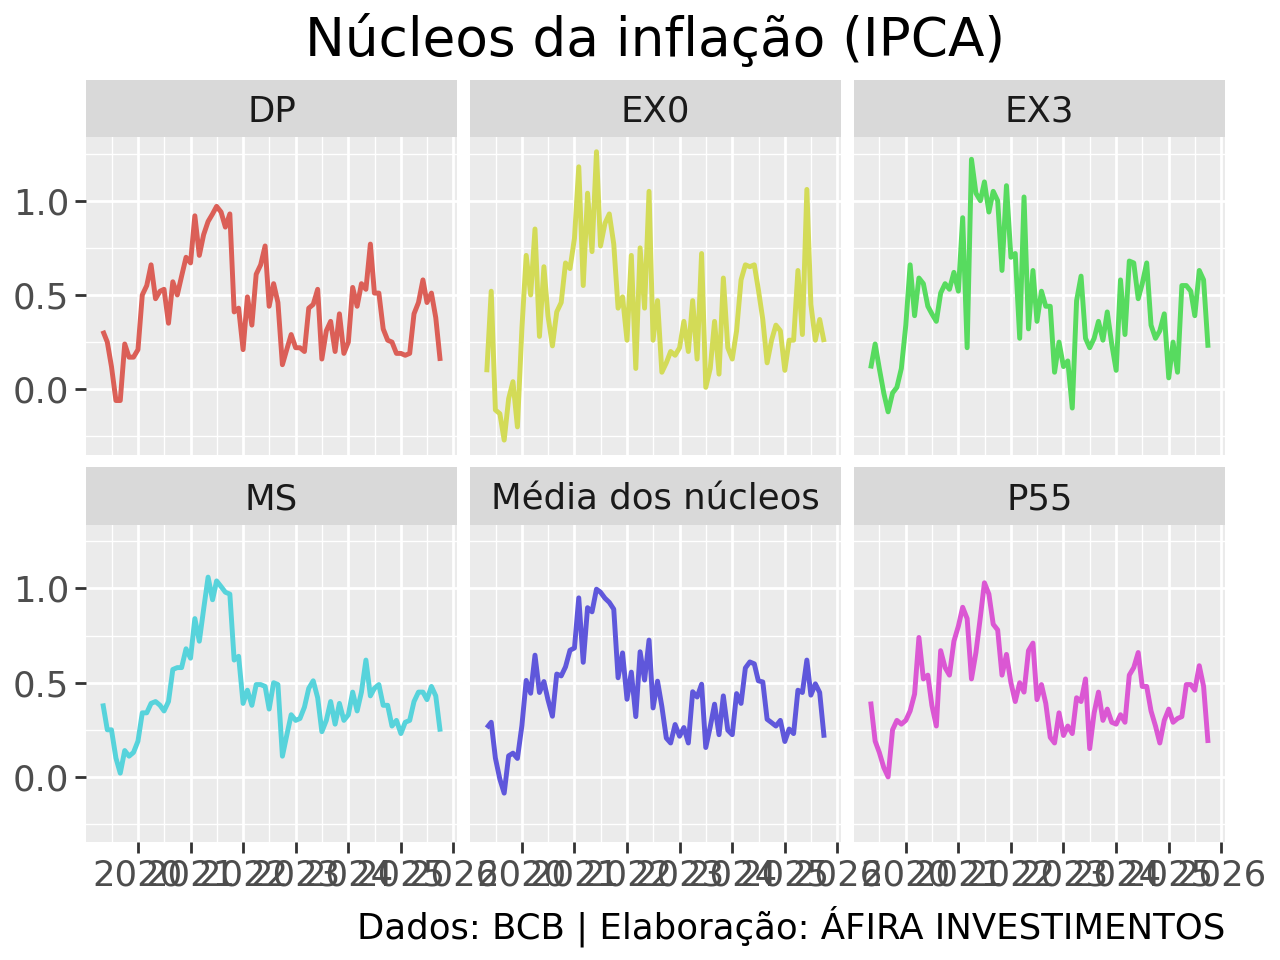
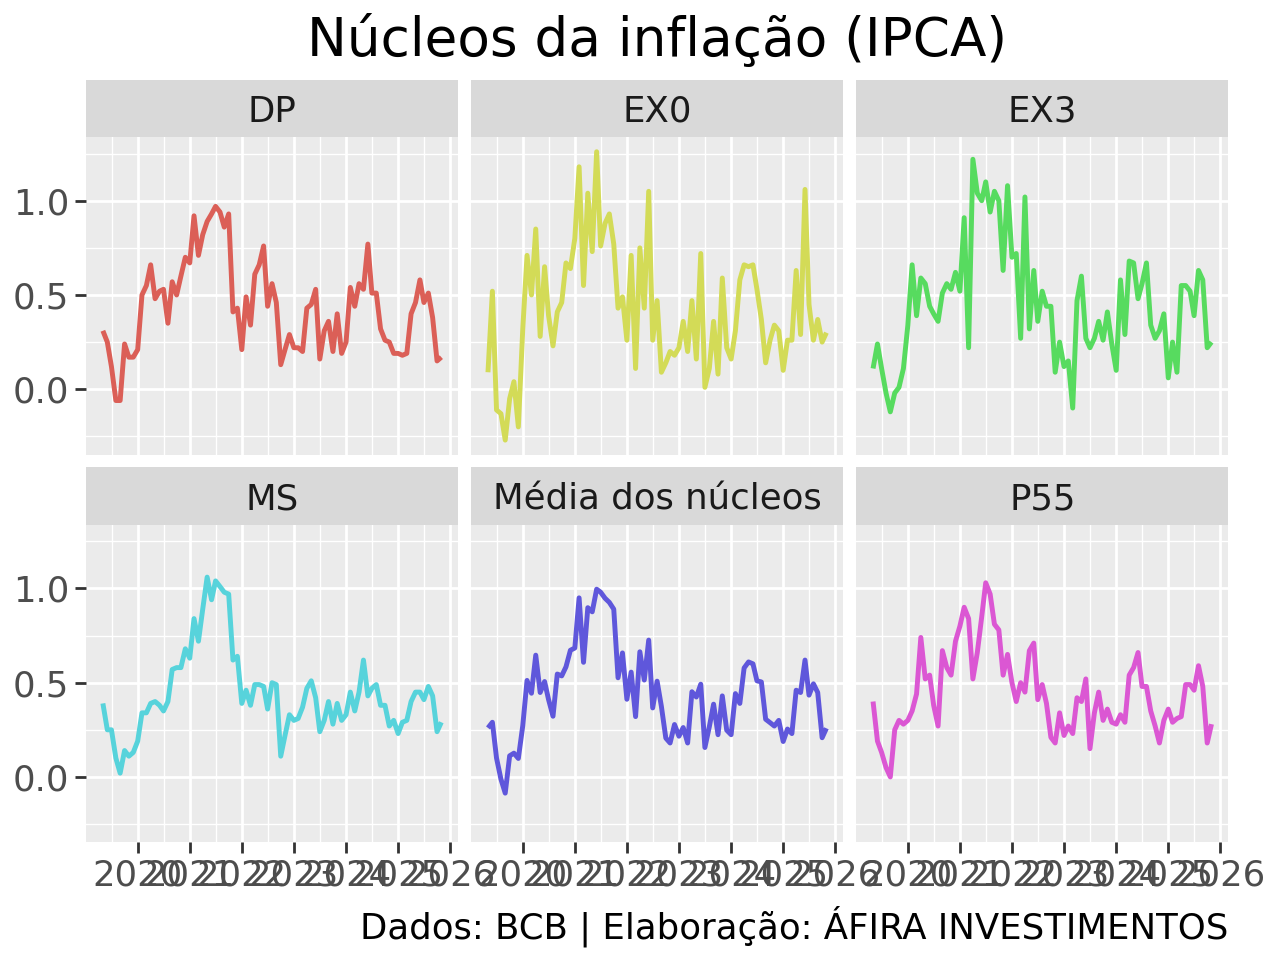
Atualização de relatório automatizada

diff --git a/projeto1/projeto1.html b/projeto1/projeto1.html
@@ -63,7 +63,7 @@ ul.task-list li input[type="checkbox"] {
     <div>
     <div class="quarto-title-meta-heading">Data de Publicação</div>
     <div class="quarto-title-meta-contents">
-      <p class="date">10 de agosto de 2026</p>
+      <p class="date">12 de agosto de 2026</p>
     </div>
   </div>
   
